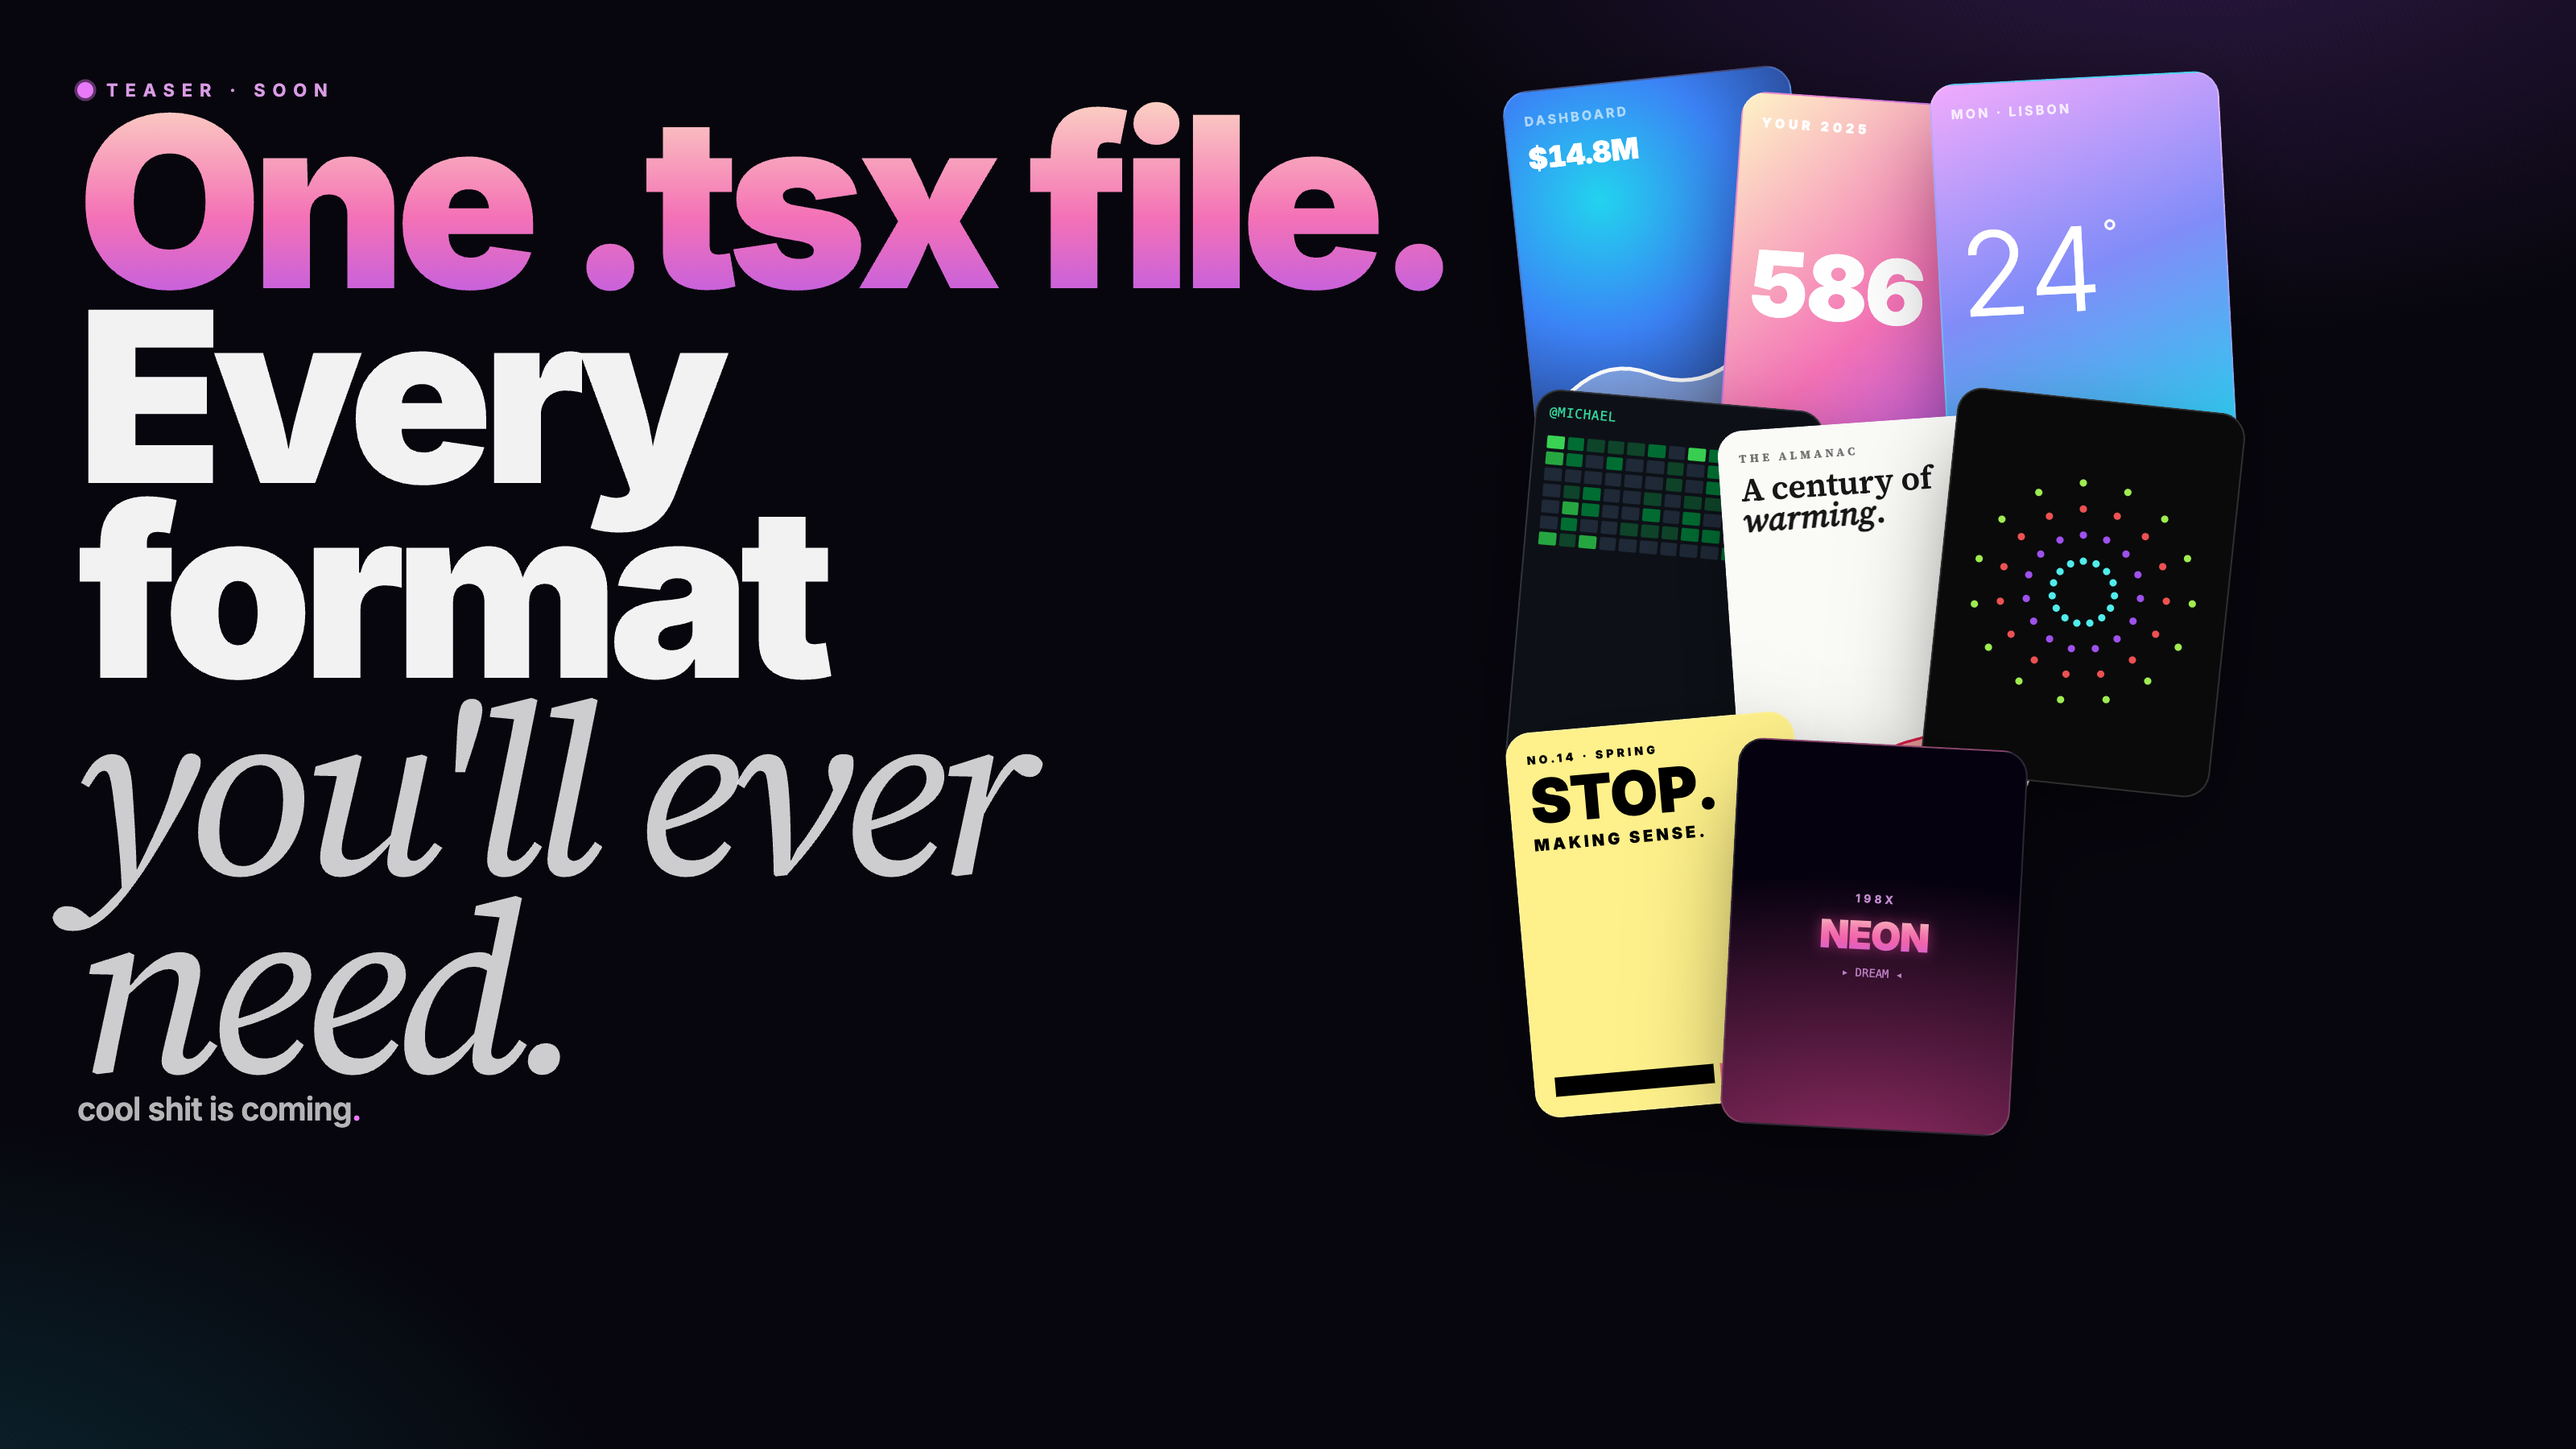
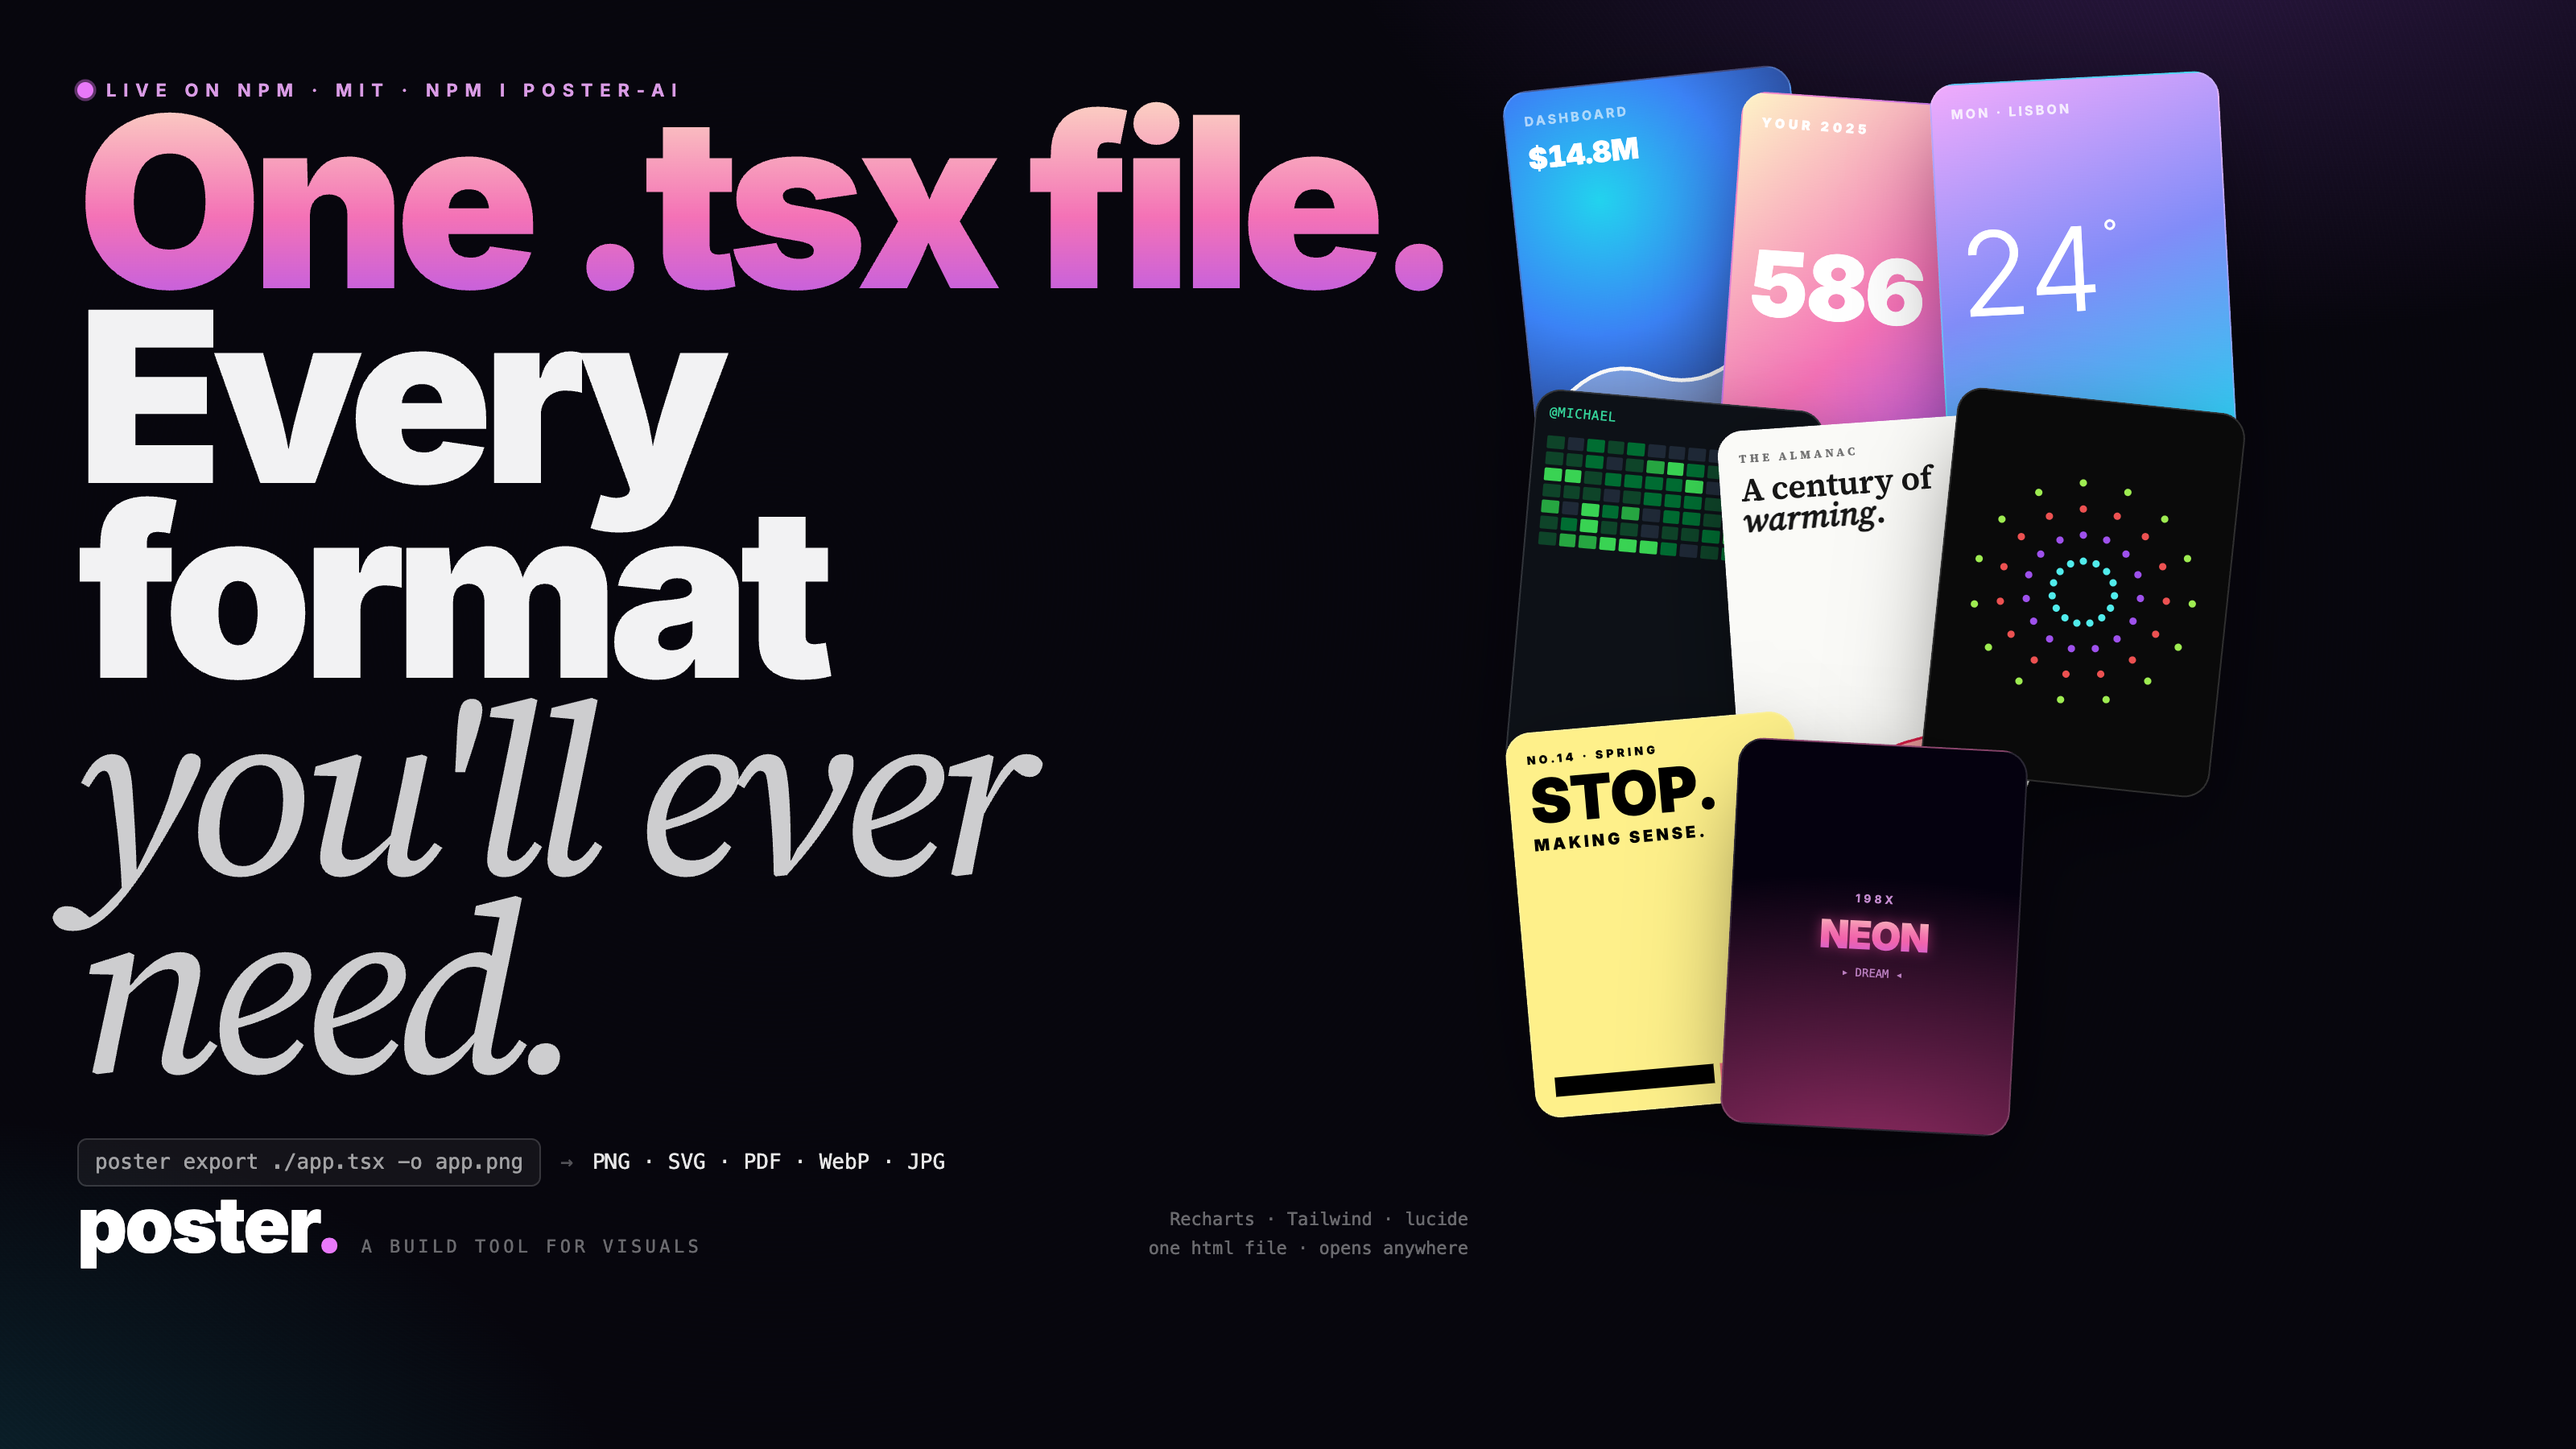
readme: update hero image, trim license footer
- Regenerate docs/images/hero.png from the restored teaser: big
  'One .tsx file' headline + CLI pill + 'poster.' wordmark + tech-stack
  footer, with the chip updated to 'Live on npm · MIT · npm i poster-ai'
  now that we've shipped 0.2.0.
- README license line: 'MIT' (was 'MIT — see LICENSE.')

diff --git a/README.md b/README.md
@@ -233,4 +233,4 @@ were generated via a single stdin call each. Exact workflow an agent will use.
 
 ## License
 
-MIT — see [LICENSE](./LICENSE).
+MIT.
